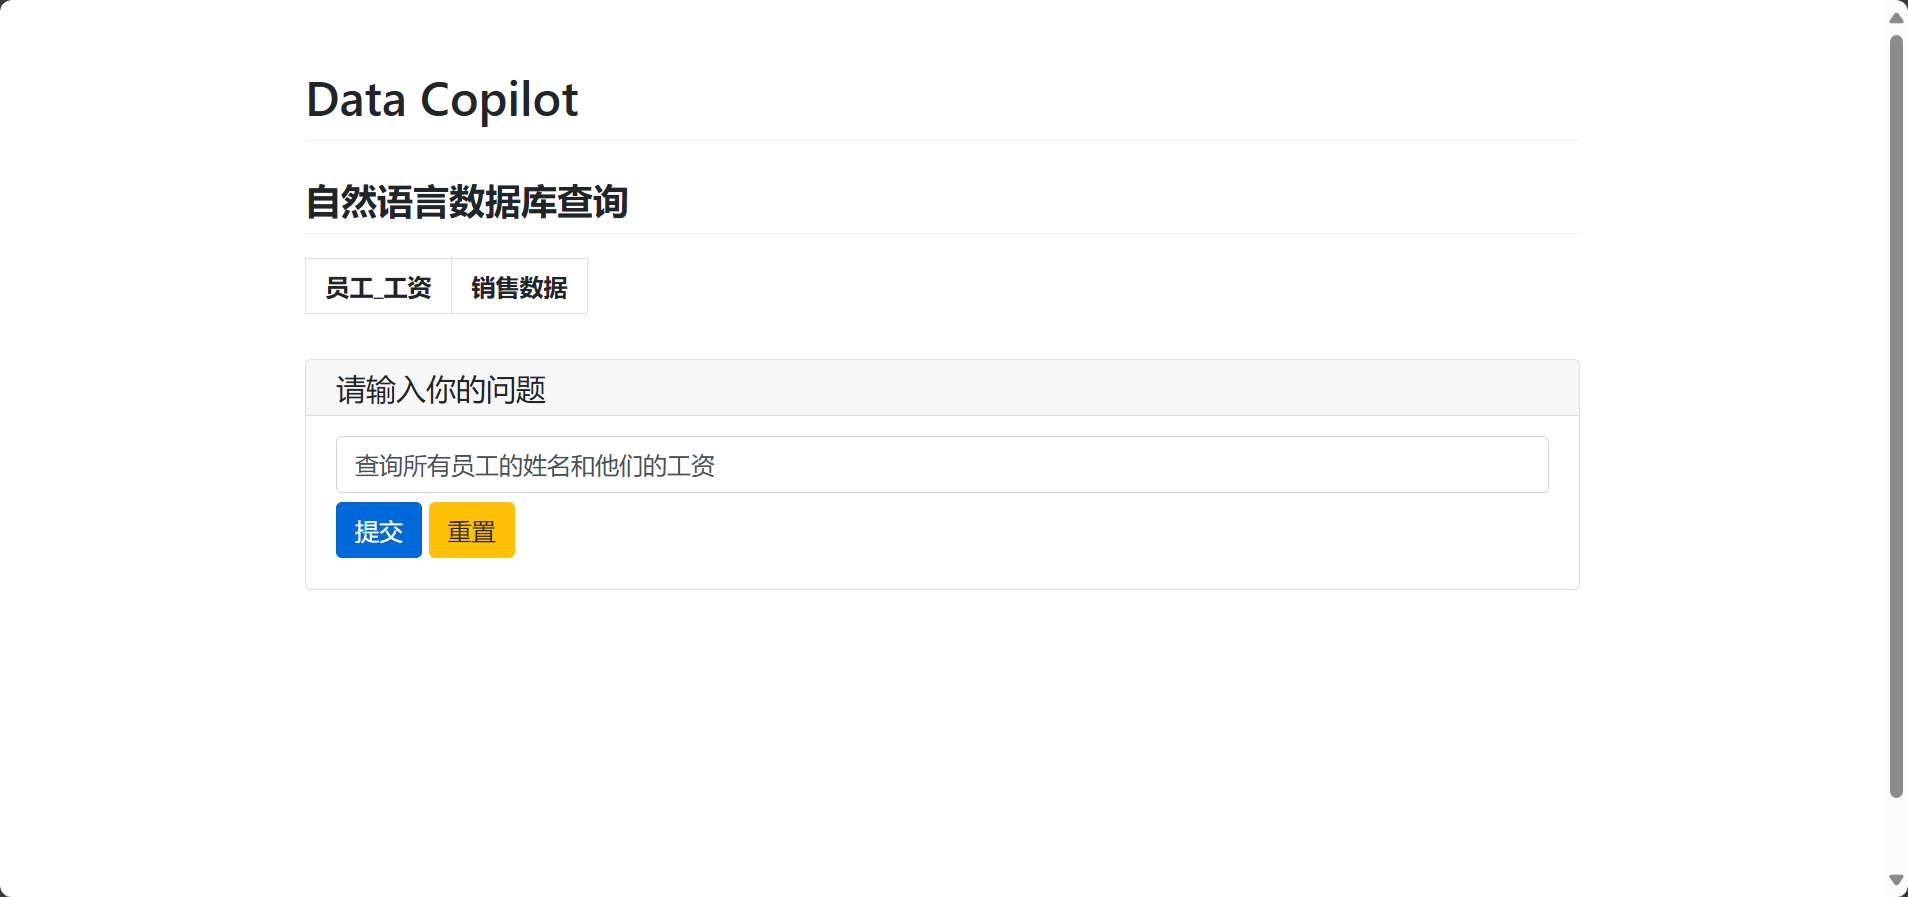
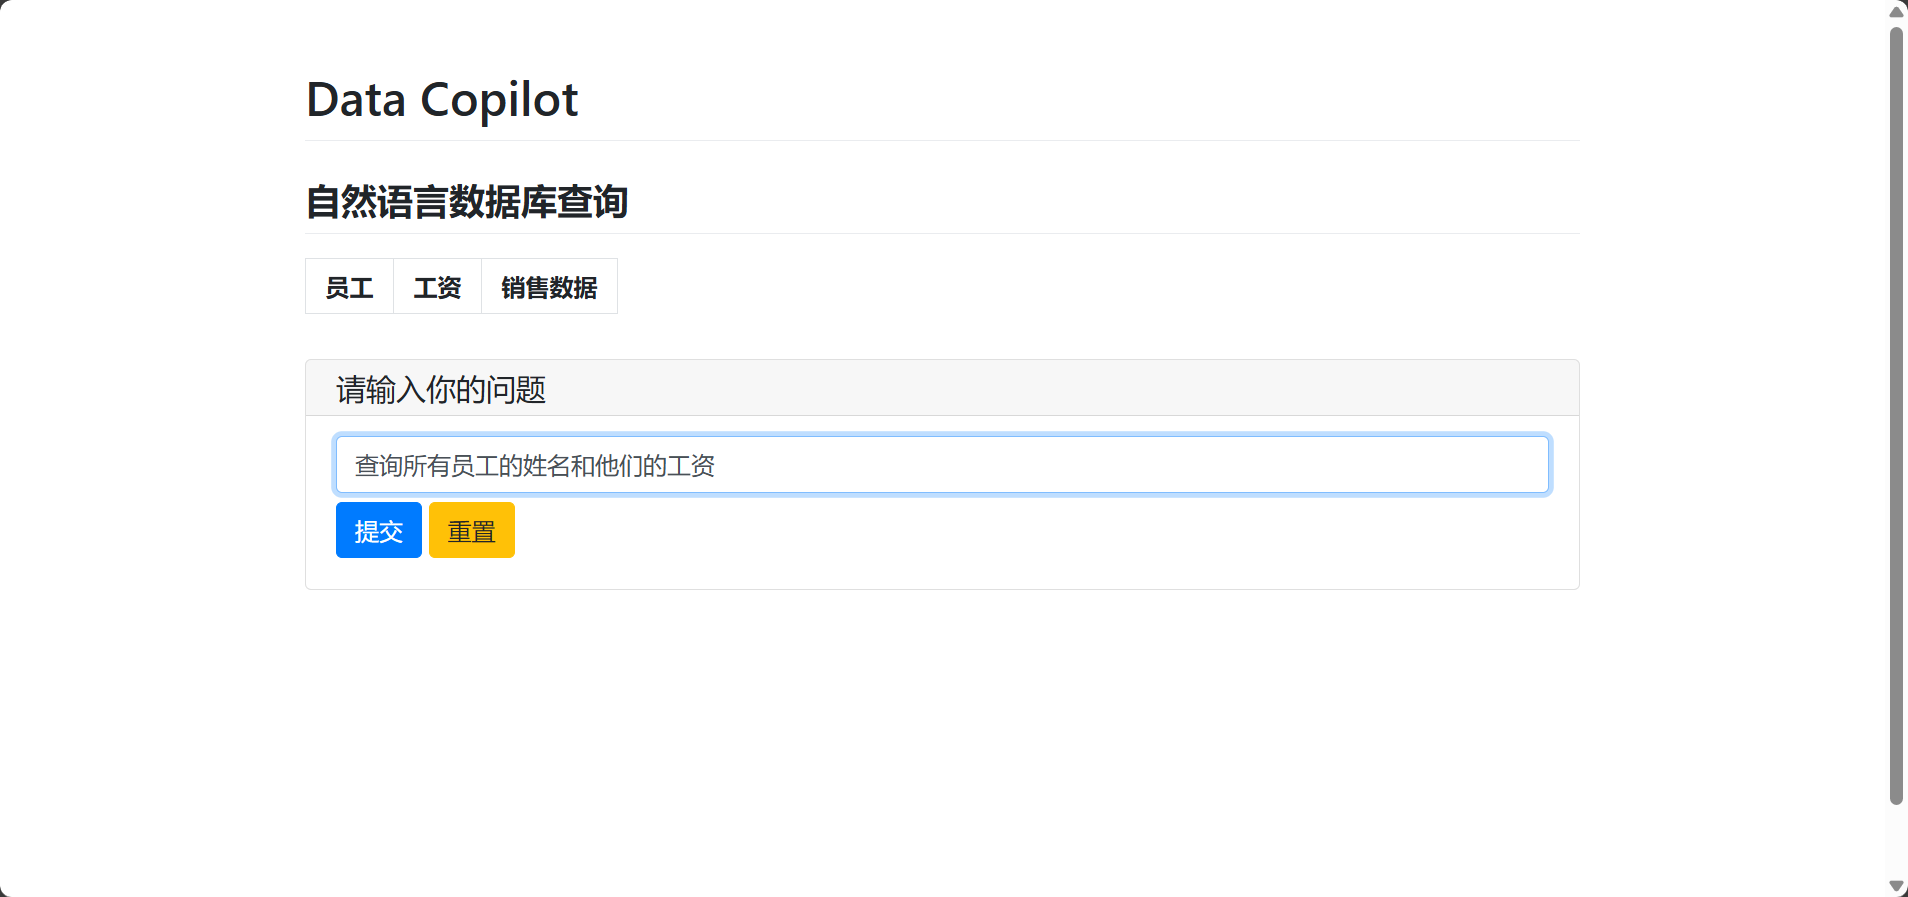
readme

diff --git a/data_access/read_db.py b/data_access/read_db.py
@@ -55,7 +55,8 @@ def get_data_from_db():
     #     if table_name not in merged_table_names:
     #         merged_tables_data[table_name] = table_df
 
-    return tables_data, merged_tables_data
+    # return tables_data, merged_tables_data
+    return tables_data, {}
 
 
 if __name__ == "__main__":
